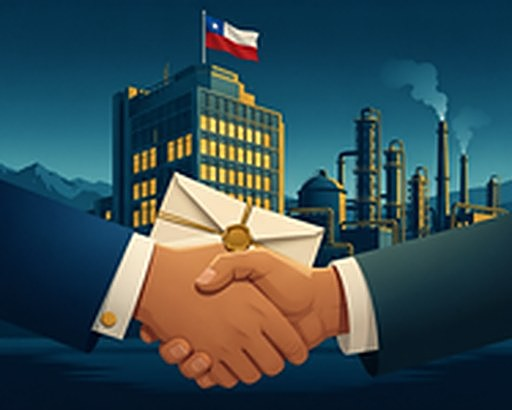
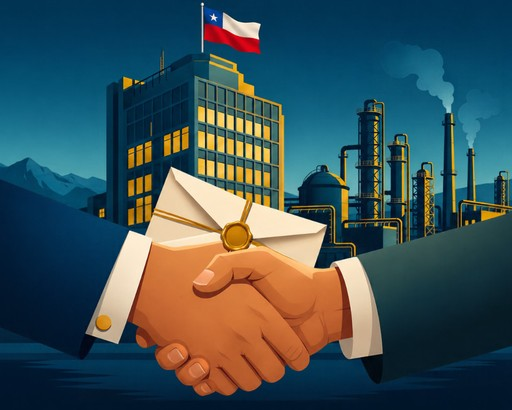
Ilustración de Estado empresario en resolución completa (exportada desde Canva)
Claude-Session: https://claude.ai/code/session_015HWWmkEwJCj4FJzfaCJi9b

diff --git a/docs/ESTADO_FASES.md b/docs/ESTADO_FASES.md
@@ -126,7 +126,7 @@ Las comparaciones fotograma a fotograma contra el PDF están en `docs/comparacio
 - Pendiente: maqueta real (Figma) para la comparación; verificación de los 14 eventos reales sin fuente primaria; quórum real por boletín.
 
 ### Ilustraciones con Canva (23-nov-2026)
-- `game/arte/cartas/estado.jpg`: ilustración de la categoría `estado` (empresas públicas, privatización, expropiación), generada con Canva (`generate-image`, media id `MAHbwnvLDqo`, original 2336×1760 en Canva). **Provisoria:** la herramienta solo entrega una miniatura de 200×150, ampliada a 512×410 (algo blanda). Para resolución completa hay que exportarla desde Canva (crear diseño con la imagen y exportar) o descargarla manualmente desde el enlace de Canva.
+- `game/arte/cartas/estado.jpg`: ilustración de la categoría `estado` (empresas públicas, privatización, expropiación), generada con Canva (`generate-image`, media id `MAHbwnvLDqo`, original 2336×1760 en Canva). Resolución completa: se creó un diseño de una página con la imagen (`DAHbww6wb9g`) y se exportó a 1024×768 (`docs/comparacion/arte_estado.jpg`); en el juego está recortada a 512×410. La licencia de uso sigue sin confirmar (ver abajo).
 - Las otras 13 categorías ya tenían arte (Figma, antes de que se agotara la cuota). Derechos del arte generado con IA: pendiente de confirmar.
 
 ### Respuestas al chequeo de monitoreo (23-nov-2026, tarde)
